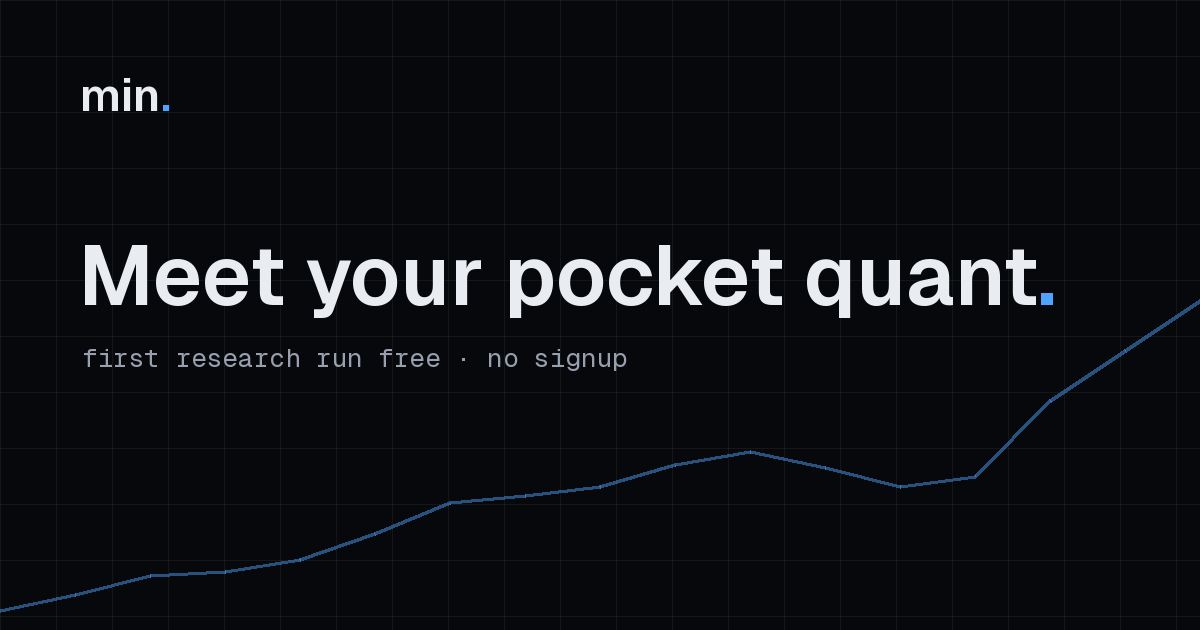
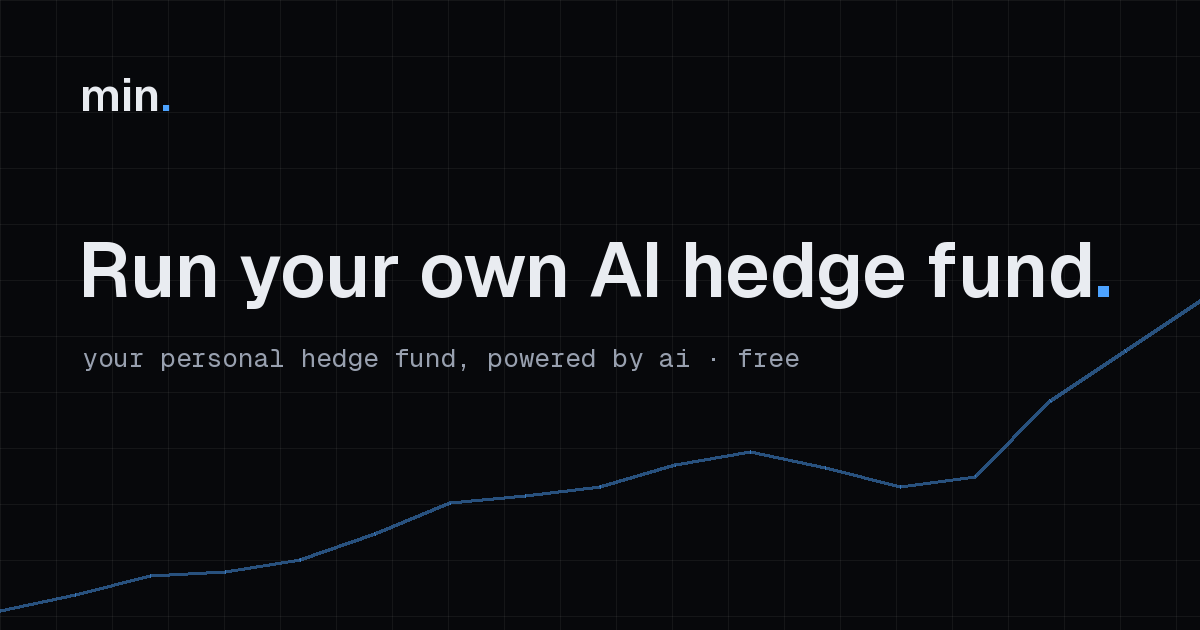
positioning: Run your own AI hedge fund
the fund is the category, the quant is one member of the staff. hero, meta,
og card, json-ld all carry the line; strapline lists the desks so 'AI hedge
fund' reads as a team, not a bot.

diff --git a/index.html b/index.html
@@ -3,22 +3,22 @@
 <head>
 <meta charset="utf-8">
 <meta name="viewport" content="width=device-width, initial-scale=1">
-<title>min. | AI Quant</title>
-<meta name="description" content="Meet your pocket quant. Give min. any market idea: it pulls live data, checks the numbers, backtests it, and builds the strategy. First run free, no signup.">
+<title>min. | Your Personal Hedge Fund</title>
+<meta name="description" content="Run your own AI hedge fund: research, backtests, strategies, execution on schedule, risk guardrails. First run free, no signup.">
 <link rel="canonical" href="https://withmin.ai/">
 <meta property="og:type" content="website">
 <meta property="og:site_name" content="min.">
-<meta property="og:title" content="min. | AI Quant">
-<meta property="og:description" content="Meet your pocket quant. First research run is free.">
+<meta property="og:title" content="min. | Run Your Own AI Hedge Fund">
+<meta property="og:description" content="Your personal hedge fund, powered by AI. First research run: free, no signup.">
 <meta property="og:url" content="https://withmin.ai/">
 <meta property="og:image" content="https://withmin.ai/assets/og.png">
 <meta property="og:image:width" content="1200">
 <meta property="og:image:height" content="630">
-<meta property="og:image:alt" content="min. Meet your pocket quant. First research run free, no signup.">
+<meta property="og:image:alt" content="min. Run your own AI hedge fund. Free.">
 <meta name="twitter:card" content="summary_large_image">
 <meta name="twitter:creator" content="@ericzizhouwangx">
-<meta name="twitter:title" content="min. | AI Quant">
-<meta name="twitter:description" content="Meet your pocket quant. First research run is free.">
+<meta name="twitter:title" content="min. | Run Your Own AI Hedge Fund">
+<meta name="twitter:description" content="Your personal hedge fund, powered by AI. First research run: free, no signup.">
 <meta name="twitter:image" content="https://withmin.ai/assets/og.png">
 <script type="application/ld+json">
 {"@context":"https://schema.org","@graph":[
@@ -28,7 +28,7 @@
   "publisher":{"@id":"https://withmin.ai/#org"}},
  {"@type":"SoftwareApplication","name":"min.","applicationCategory":"FinanceApplication",
   "operatingSystem":"Web","url":"https://quant.withmin.ai",
-  "description":"Give min. any market idea. It pulls live market data, checks the numbers, backtests it, and builds the strategy for you.",
+  "description":"Your personal hedge fund, powered by AI: agentic research, backtests, strategy building, scheduled execution, and risk guardrails from any market idea.",
   "offers":{"@type":"Offer","price":"0","priceCurrency":"USD"}}
 ]}
 </script>
@@ -275,15 +275,14 @@
   </nav>
 
   <main class="hero">
-    <h1 class="rise d1">Meet your pocket quant<i>.</i></h1>
+    <h1 class="rise d1">Run your own AI hedge fund<i>.</i></h1>
 
     <div class="hero-row">
       <div>
         <div class="sub rise d2">
-          <p>Every hedge fund on Wall Street has an army of PhDs.</p>
-          <p>Now so do you.</p>
-          <p>Give <b>min.</b> any idea. It does deep research, pulls market data,
-          checks all the numbers, backtests it, and generates alpha for you.</p>
+          <p>A quant that researches any idea, a desk that executes the plan,
+          tripwires that stand guard. The whole fund, working for you.</p>
+          <p>Wall Street keeps this behind velvet ropes. Yours is free.</p>
           <p>Every great fund starts with an idea. Run yours free.</p>
         </div>
 
